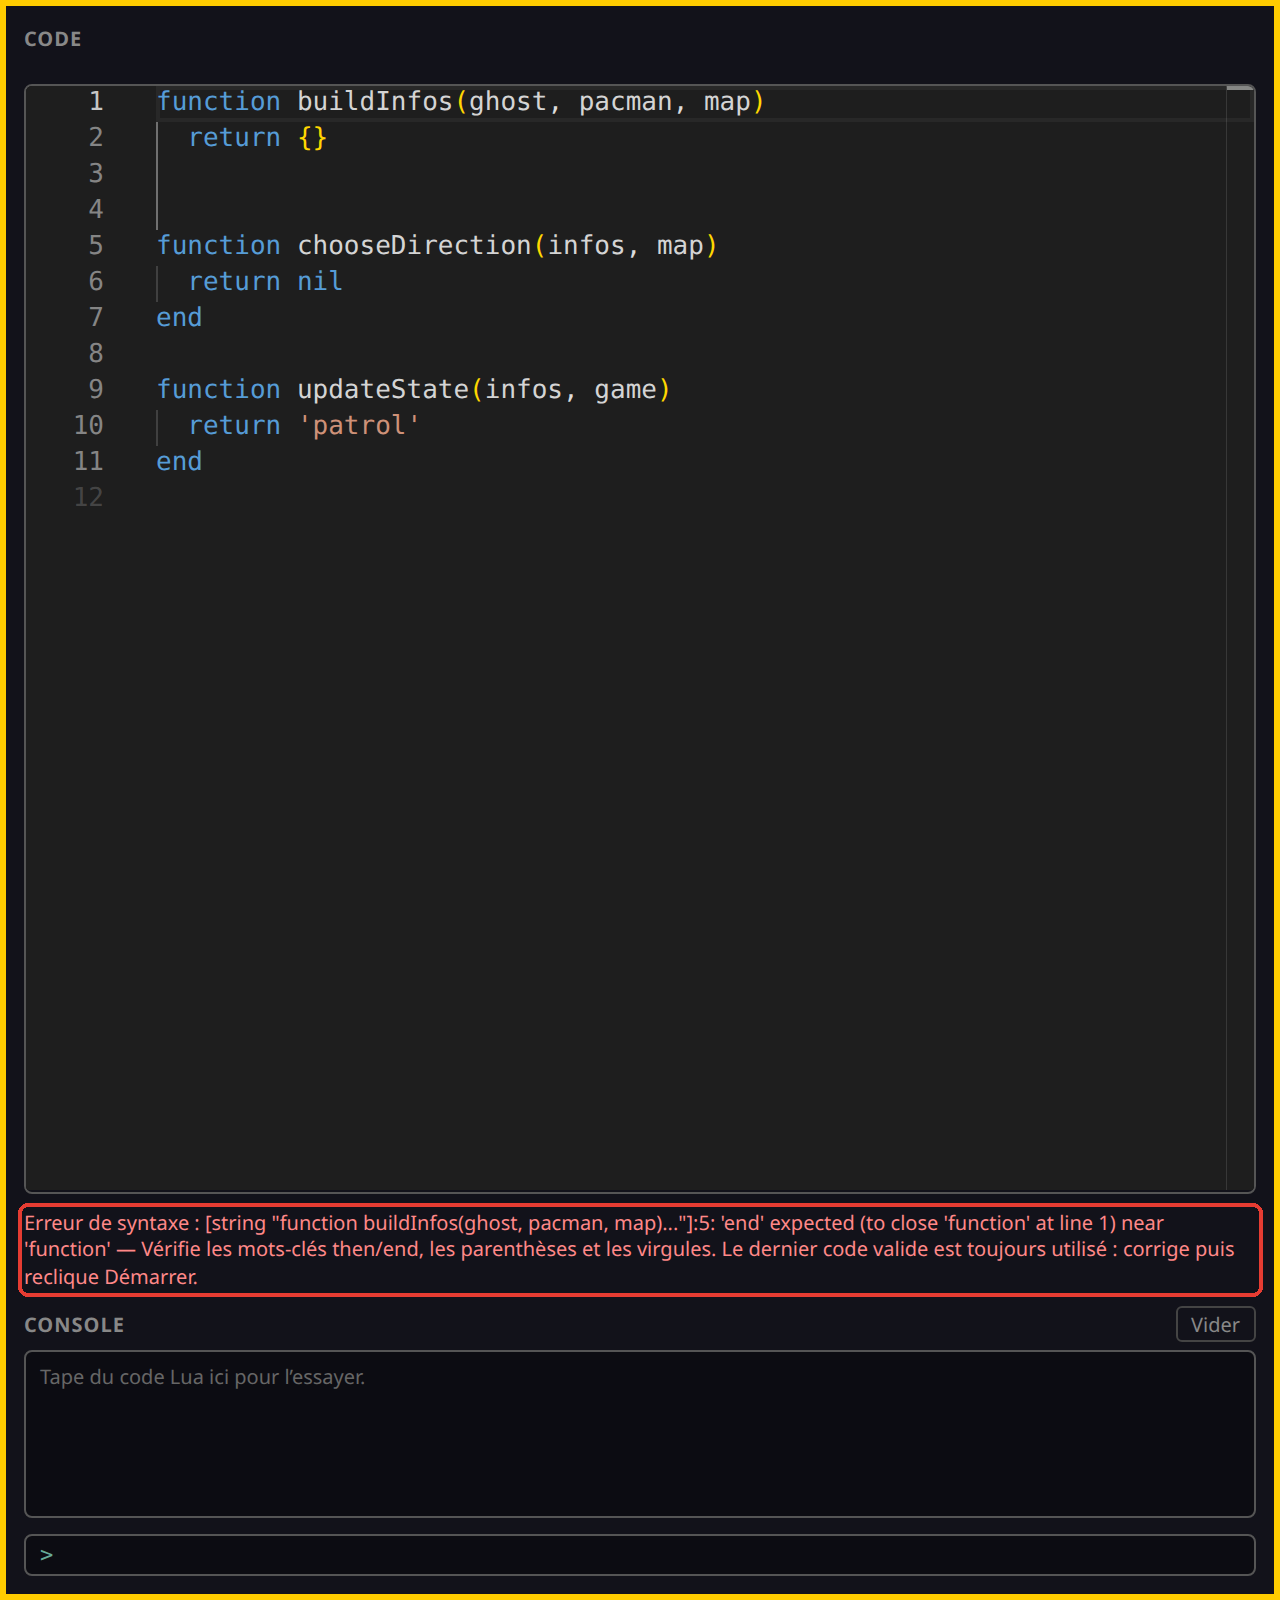
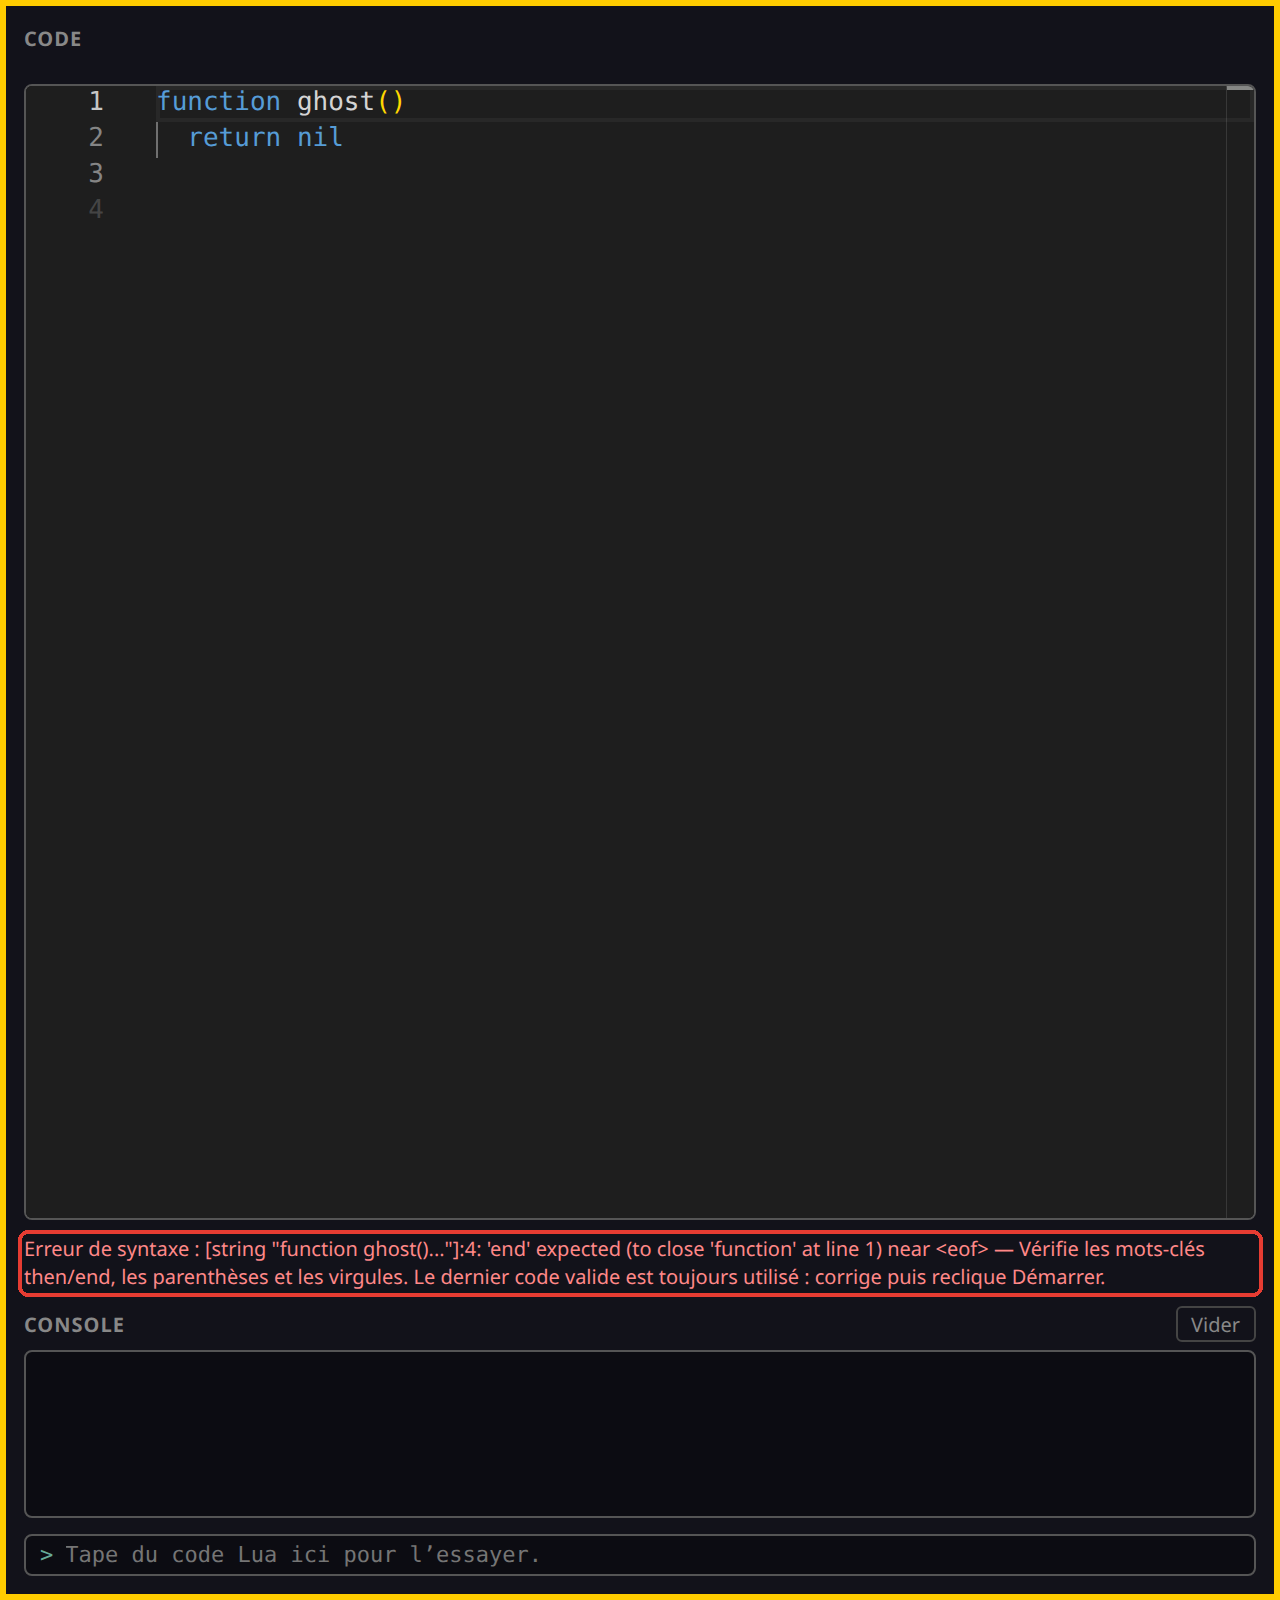
Explorer un sujet a une seule fonction : ghost(), et des variables une par une
Version du sujet pour la branche explo/fonction-unique du runtime. Plus de
buildInfos ni de table infos : l'eleve range ses informations dans des
variables (canGoLeft, distanceX...) puis ecrit ses regles dessous, dans la
seule fonction ghost(). L'humeur de la partie 2 est une variable state en
haut du fichier, lue par le jeu apres chaque appel.

- Partie 1 : memes etapes, memes images ; les virgules de table et le
  prefixe infos. disparaissent des consignes et des coups de pouce.
- Partie 2, etape 0 : le critere de reussite devient visible (state a
  'follow' rend le fantome rouge) au lieu d'un print.
- Partie 2, etape 3 : l'outil « cascade de return » devient « plusieurs
  regles qui rangent dans la meme variable, la derniere gagne », puisque
  state s'affecte au lieu de se renvoyer.
- Bonus Tenir sa direction : plus de compte a rebours fourni par le jeu ;
  l'eleve compte les appels (60 par seconde, donc 90 = 1,5 s), avec un
  outil sur les variables qui survivent d'un appel a l'autre.
- interface.png et erreur-end.png repris sur le nouveau runtime.

Claude-Session: https://claude.ai/code/session_014swqyu5pWsLvWf6cDe9CY1

diff --git a/atelier1.md b/atelier1.md
@@ -18,7 +18,7 @@ Le jeu fonctionne déjà en partie : Pac-Man se déplace et mange les pac-gommes
 ![Le panneau Jeu est actif : contour jaune. Démarrer, encadré en rouge, charge ton code.](img/interface.png)
 
 - Contour **jaune** = le panneau qui reçoit tes touches. Clique dans le panneau **Code** pour écrire ton code, dans le panneau **Jeu** pour tester ce que tu as codé.
-- Dans l'éditeur il y a deux fonctions à remplir : `buildInfos`, où tu prépares ton fantôme à prendre une décision, et `chooseDirection`, où tu appliques cette décision. Tu ne touches pas à `updateState` pour l'instant.
+- Dans l'éditeur il y a une seule fonction à remplir : `ghost`. Le jeu l'appelle **60 fois par seconde**, et le fantôme part dans la direction qu'elle renvoie.
 - Sous l'éditeur, la **Console** : les erreurs et les affichages du programme y sortent, et tu
   peux y taper du code toi-même pour l'essayer, les exemples des **boîtes à outils** par exemple.
 - **Écris toujours entre** `function` **et** `end`.
@@ -29,7 +29,7 @@ Le jeu fonctionne déjà en partie : Pac-Man se déplace et mange les pac-gommes
 
 1. En haut de cette page, clique sur le bouton **Ouvrir Pac-Man** : le jeu s'ouvre à côté des instructions ou dans un nouvel onglet.
 2. Clique dans le panneau **Jeu**, puis sur **Démarrer**, et joue une partie rapidement.
-3. Efface le `end` de la **ligne 3**, celui qui ferme `buildInfos`, puis clique **Arrêter** et **Démarrer**.
+3. Efface le `end` de la **ligne 3**, celui qui ferme `ghost`, puis clique **Arrêter** et **Démarrer**.
 
 Tu dois obtenir ceci :
 
@@ -49,7 +49,7 @@ Les flèches ne font rien ? Le contour jaune entoure sûrement le panneau **Code
 ## Étape 1 : Faire bouger le fantôme
 <!-- ws: {type: exercise, id: a1-bouger} -->
 
-Le fantôme ne bouge pas, et c'est normal : `chooseDirection` renvoie `nil`, ce qui veut dire « je ne fais rien ». Commence par lui dire d'aller à gauche.
+Le fantôme ne bouge pas, et c'est normal : `ghost` renvoie `nil`, ce qui veut dire « je ne fais rien ». Commence par lui dire d'aller à gauche.
 
 ### Boîte à outils
 
@@ -74,22 +74,15 @@ Voici le modèle de code. Tape-le et lance-le : tu te baseras sur ce modèle pou
 Une ligne qui commence par `--` est un **commentaire pour toi**, pas du code : tu n'es pas obligé de la recopier pour que le programme fonctionne.
 
 ```lua
--- dans buildInfos, à la place de return {}
-return {
-  canGoLeft = true,
-}
-```
-
-```lua
--- dans chooseDirection, à la place de return nil
-if infos.canGoLeft then
+-- dans ghost, à la place de return nil
+canGoLeft = true
+if canGoLeft then
   return 'left'
 end
 return nil
 ```
 
-Tu donnes l'information `canGoLeft` dans `buildInfos`.
-Et tu récupères cette information dans `chooseDirection` avec `infos.canGoLeft`.
+`canGoLeft` est une **variable** : la première ligne y range une information, et la règle en dessous la lit.
 
 Tu dois obtenir ceci :
 
@@ -101,8 +94,8 @@ Tu dois obtenir ceci :
 <details><summary>Si tu es bloqué</summary>
 
 Il ne bouge pas du tout ? Trois causes, dans cet ordre : tu n'as pas recliqué sur **Démarrer**, ton
-`return 'left'` est **après** le `end` au lieu d'être dedans, ou il manque la **virgule** après
-`canGoLeft = true`.
+`return 'left'` est **après** le `end` au lieu d'être dedans, ou `canGoLeft` n'est pas écrit pareil
+sur les deux lignes (une majuscule change tout).
 
 </details>
 
@@ -119,7 +112,7 @@ Pour savoir si le fantôme peut aller à gauche, tu regardes la case à sa gauch
 
 > 🗺 **La carte est une grille**
 > ![En informatique la case tout en haut à gauche, encadrée en rouge, est la case (0, 0). La flèche horizontale est l'axe X, la verticale l'axe Y : X augmente vers la droite, Y vers le bas.](img/origin.png)
-> Le jeu te donne déjà des outils pour récupérer la position du fantôme sur cette grille (`ghost.X`, `ghost.Y`) et pour savoir si une case sur la grille est un mur : `map.isWall(x, y)`.
+> Le jeu te donne déjà des outils pour récupérer la position du fantôme sur cette grille (`me.X`, `me.Y`) et pour savoir si une case sur la grille est un mur : `map.isWall(x, y)`.
 
 > 🧰 **Outil #1 : `not` « L'inverse de »**
 > `map.isWall(...)` dit « c'est un mur ». Ce qui t'intéresse, c'est l'inverse.
@@ -133,24 +126,22 @@ Pour savoir si le fantôme peut aller à gauche, tu regardes la case à sa gauch
 
 **Ton objectif :** le même fantôme, mais qui s'arrête au mur au lieu de le traverser.
 
-Une seule ligne change : `canGoLeft` devient une **variable** qui va changer selon ce qui se passe dans le programme : à force de se déplacer vers la gauche le fantôme tombera à un moment sur un mur.
+Une seule ligne change : `canGoLeft` ne vaut plus « vrai, tout le temps », mais quelque chose qui change selon ce qui se passe dans le programme : à force de se déplacer vers la gauche le fantôme tombera à un moment sur un mur.
 
 ```lua
--- dans buildInfos
-return {
-  canGoLeft = not map.isWall(ghost.X - 1, ghost.Y),
-}
+-- dans ghost, à la place de canGoLeft = true
+canGoLeft = not map.isWall(me.X - 1, me.Y)
 ```
 
-`not map.isWall(ghost.X - 1, ghost.Y)` se lit : **« la case à gauche du fantôme n'est pas un mur »**.
+`not map.isWall(me.X - 1, me.Y)` se lit : **« la case à gauche du fantôme n'est pas un mur »**.
 
 <details><summary>En détail</summary>
 
-Si on décompose `not map.isWall(ghost.X - 1, ghost.Y)` :
+Si on décompose `not map.isWall(me.X - 1, me.Y)` :
 
 - `not` : le **contraire** de...
   - `map.isWall(..., ...)` : est-ce que cette case-là est un mur ? Quelle case ?
-    - `ghost.X - 1` : celle qui est à gauche du fantôme, `ghost.Y` : la position verticale du fantôme.
+    - `me.X - 1` : celle qui est à gauche du fantôme, `me.Y` : la position verticale du fantôme.
 
 </details>
 
@@ -164,7 +155,7 @@ Tu dois obtenir ceci :
 Il sort toujours de l'écran ? Tu as laissé `canGoLeft = true` quelque part, ou tu as ajouté la
 nouvelle ligne sans effacer l'ancienne.
 
-Il ne bouge plus du tout ? Vérifie le `-` de `ghost.X - 1` et la **virgule** en fin de ligne.
+Il ne bouge plus du tout ? Vérifie le `-` de `me.X - 1` et les deux parenthèses.
 
 </details>
 
@@ -196,16 +187,13 @@ Lorsque `distanceX` est négatif : Pac-Man est à **gauche du fantôme**.
 **Ton objectif :** un fantôme qui ne va à gauche **QUE SI** Pac-Man est à sa gauche, **ET** qu'il peut y aller.
 
 ```lua
--- dans buildInfos
-return {
-  canGoLeft = not map.isWall(ghost.X - 1, ghost.Y),
-  distanceX = pacman.X - ghost.X,
-}
+-- dans ghost, sous canGoLeft
+distanceX = pacman.X - me.X
 ```
 
 ```lua
--- dans chooseDirection
-if infos.canGoLeft and infos.distanceX < 0 then
+-- puis ta règle devient
+if canGoLeft and distanceX < 0 then
   return 'left'
 end
 return nil
@@ -222,22 +210,14 @@ Pour déplacer Pac-Man, attrape-le à la souris quand le jeu est **arrêté** :
 <details><summary>À quoi ressemble ton fichier en entier, à ce stade</summary>
 
 ```lua
-function buildInfos(ghost, pacman, map)
-  return {
-    canGoLeft = not map.isWall(ghost.X - 1, ghost.Y),
-    distanceX = pacman.X - ghost.X,
-  }
-end
+function ghost()
+  canGoLeft = not map.isWall(me.X - 1, me.Y)
+  distanceX = pacman.X - me.X
 
-function chooseDirection(infos, map)
-  if infos.canGoLeft and infos.distanceX < 0 then
+  if canGoLeft and distanceX < 0 then
     return 'left'
   end
   return nil
-end
-
-function updateState(infos, game)
-  return 'patrol'
 end
 ```
 
@@ -247,7 +227,7 @@ end
 <details><summary>Si tu es bloqué</summary>
 
 Immobile **des deux côtés** ? Ce n'est pas ta règle, c'est ton code. Compare avec le fichier
-complet ci-dessus, ligne par ligne : la virgule après `distanceX`, et le `then` en fin de `if`.
+complet ci-dessus, ligne par ligne : le `-` de `pacman.X - me.X`, et le `then` en fin de `if`.
 
 </details>
 
@@ -256,8 +236,8 @@ complet ci-dessus, ligne par ligne : la virgule après `distanceX`, et le `then`
 
 Pour aller à droite, c'est comme pour aller à gauche... mais dans l'autre sens.
 
-- Pour regarder ce qu'il y a à gauche de ton fantôme, tu regardes `ghost.X - 1`. Pour la droite ?
-- Et pour savoir si Pac-Man est à gauche, tu regardes si `infos.distanceX` est négatif. Et pour savoir s'il est à droite ?
+- Pour regarder ce qu'il y a à gauche de ton fantôme, tu regardes `me.X - 1`. Pour la droite ?
+- Et pour savoir si Pac-Man est à gauche, tu regardes si `distanceX` est négatif. Et pour savoir s'il est à droite ?
 
 ### Boîte à outils
 
@@ -295,17 +275,11 @@ Pour aller à droite, c'est comme pour aller à gauche... mais dans l'autre sens
 **Ton objectif :** un fantôme qui te suit dans les deux sens sur une ligne horizontale.
 
 ```lua
--- dans buildInfos
-return {
-  canGoLeft = not map.isWall(ghost.X - 1, ghost.Y),
-  distanceX = pacman.X - ghost.X,
-  canGoRight = nil, -- remplace nil par ton code
-}
+-- dans ghost, une variable de plus, sous distanceX
+canGoRight = nil -- remplace nil par ton code
 ```
 
-**Chaque ligne se termine par une virgule**, sauf la dernière si tu veux. Oublie-en une au milieu et le programme plante.
-
-Puis **une règle de plus** dans `chooseDirection`, avant le `return nil` final, sans supprimer celle de gauche : « si le fantôme peut aller à droite **et** que Pac-Man est à sa droite, alors il va à droite. » (en utilisant `return 'right'` ).
+Puis **une règle de plus**, avant le `return nil` final, sans supprimer celle de gauche : « si le fantôme peut aller à droite **et** que Pac-Man est à sa droite, alors il va à droite. » (en utilisant `return 'right'` ).
 
 Tu dois obtenir ceci :
 
@@ -327,25 +301,20 @@ Même modèle, sur l'autre axe. Une seule différence, et c'est **le** piège de
 
 ![Fantôme en (5, 3), Pac-Man en (5, 9) : Pac-Man est en dessous, et l'écart vertical vaut +6.](img/a1-e5-axe-y.png)
 
-Les deux directions te manquent aussi : le fantôme réagira lorsque `chooseDirection` retournera `'up'` et `'down'` (avec les apostrophes, exactement comme `return 'left'` et `return 'right'`).
+Les deux directions te manquent aussi : le fantôme réagira lorsque `ghost` renverra `'up'` et `'down'` (avec les apostrophes, exactement comme `return 'left'` et `return 'right'`).
 
 ### 🥸 Mise en application
 
 **Ton objectif :** un fantôme qui te suit partout, plus seulement sur une ligne.
 
 ```lua
--- dans buildInfos
-return {
-  canGoLeft = not map.isWall(ghost.X - 1, ghost.Y),
-  distanceX = pacman.X - ghost.X,
-  canGoRight = not map.isWall(ghost.X + 1, ghost.Y),
-  canGoUp = nil,   -- remplace nil par ton code
-  canGoDown = nil, -- idem
-  distanceY = nil, -- idem
-}
+-- dans ghost, trois variables de plus, sous canGoRight
+canGoUp = nil   -- remplace nil par ton code
+canGoDown = nil -- idem
+distanceY = nil -- idem
 ```
 
-Puis **deux règles de plus** dans `chooseDirection`, sur le modèle des deux que tu as déjà.
+Puis **deux règles de plus**, sur le modèle des deux que tu as déjà.
 
 Tu dois obtenir ceci :
 
@@ -362,7 +331,7 @@ Quand Pac-Man est en diagonale, plusieurs de tes règles sont vraies en même te
 
 **D'abord**, à la souris et jeu arrêté, mets le fantôme dans un coin et Pac-Man dans le coin opposé, le plus loin possible. Lance, et regarde **par quel axe (horizontal ou vertical) le fantôme démarre**.
 
-Puis, dans `chooseDirection` uniquement, échange l'ordre de tes règles horizontales et verticales. **Ne touche à rien d'autre** : laisse le fantôme et Pac-Man exactement dans les coins où tu les as posés. Si tu les déplaces aussi, le trajet changera, mais tu ne sauras pas si c'est à cause de l'ordre ou à cause de tes coins. Relance, et regarde de nouveau.
+Puis échange l'ordre de tes règles horizontales et verticales, sans toucher à tes variables. **Ne touche à rien d'autre** : laisse le fantôme et Pac-Man exactement dans les coins où tu les as posés. Si tu les déplaces aussi, le trajet changera, mais tu ne sauras pas si c'est à cause de l'ordre ou à cause de tes coins. Relance, et regarde de nouveau.
 
 Tu dois obtenir ceci : **deux trajets opposés, avec exactement les mêmes règles** :
 
@@ -433,7 +402,7 @@ Le fantôme avance alors d'une case sur cet axe, l'écart y diminue, l'autre axe
 
 Oui, huit règles qui se ressemblent, c'est lourd. Mais c'est pratiquement toujours la même chose, avec un petit morceau de code à changer à chaque fois.
 
-Réorganise `chooseDirection` sur cette ossature. Le `end` de l'ossature est déjà placé, tes règles, elles, gardent chacune le sien.
+Réorganise tes règles sur cette ossature, sous tes variables. Le `end` de l'ossature est déjà placé, tes règles, elles, gardent chacune le sien.
 
 ```lua
 if nil then -- remplace nil par ta comparaison (l'écart horizontal est plus grand que l'écart vertical)
@@ -453,7 +422,7 @@ Tu dois obtenir ceci (cale Pac-Man en bas à gauche de l'écran et le fantôme e
 
 **Coupe l'étape en deux, teste au milieu.**
 
-*Moitié 1, la comparaison seule.* `print(math.abs(infos.distanceX), math.abs(infos.distanceY))` au début de `chooseDirection`. Les deux nombres s'affichent dans le panneau **Console**, sous l'éditeur. Ça défile : regarde la dernière ligne. Bougent-ils comme tu l'attends quand tu te déplaces ?
+*Moitié 1, la comparaison seule.* `print(math.abs(distanceX), math.abs(distanceY))` juste après tes variables. Les deux nombres s'affichent dans le panneau **Console**, sous l'éditeur. Ça défile : regarde la dernière ligne. Bougent-ils comme tu l'attends quand tu te déplaces ?
 
 *Moitié 2, la structure.* Tes règles marchent déjà : tu n'as **rien** à réécrire dedans. Tu les recopies dans les deux branches, dans un ordre différent.
 
@@ -498,7 +467,7 @@ Fais-le s'arrêter net à moins de 2 cases, au lieu de foncer dedans.
 
 ### Défi #2 : Le gardien
 
-Quand tu es sur la même ligne **ou** la même colonne que lui, fais-le s'arrêter pour te barrer la route au lieu d'avancer. Deux outils de plus : `==` teste l'égalité (`if infos.distanceY == 0 then` = « l'écart vertical vaut exactement zéro »), et `or` remplace `and` quand **une seule** des deux conditions suffit.
+Quand tu es sur la même ligne **ou** la même colonne que lui, fais-le s'arrêter pour te barrer la route au lieu d'avancer. Deux outils de plus : `==` teste l'égalité (`if distanceY == 0 then` = « l'écart vertical vaut exactement zéro »), et `or` remplace `and` quand **une seule** des deux conditions suffit.
 
 *C'est réussi si :* dès que tu te places sur sa ligne, il cesse d'avancer.
 
@@ -518,9 +487,9 @@ end
 if ilFaitBeau(true, 5) then return 'parasol' end
 ```
 
-Les noms entre parenthèses de la **première** ligne sont les tiens, tu les choisis ; ceux de l'appel sont les vraies valeurs. Écris ta fonction **en dehors** des trois autres, jamais dedans : le jeu lit ton fichier en entier et n'appelle que les trois qu'il connaît.
+Les noms entre parenthèses de la **première** ligne sont les tiens, tu les choisis ; ceux de l'appel sont les vraies valeurs. Écris ta fonction **en dehors** de `ghost`, jamais dedans : le jeu lit ton fichier en entier et n'appelle que `ghost`.
 
-*C'est réussi si :* ton `chooseDirection` est plus court qu'avant, et que ton fantôme se comporte exactement comme à l'étape 7.
+*C'est réussi si :* ton `ghost` est plus court qu'avant, et que ton fantôme se comporte exactement comme à l'étape 7.
 
 > 🤔 Et deux questions sans réponse écrite, pour celles et ceux que ça amuse : ce fantôme est-il vraiment *intelligent* ? Et trouves-tu une position de départ où il se coince derrière un mur alors qu'un détour l'aurait ramené sur toi ?
 

diff --git a/intro.md b/intro.md
@@ -26,16 +26,8 @@ Et à la fin, tu en auras fait un vrai chasseur.
 À utiliser si tu veux repartir de zéro.
 
 ```lua
-function buildInfos(ghost, pacman, map)
-  return {}
-end
-
-function chooseDirection(infos, map)
+function ghost()
   return nil
-end
-
-function updateState(infos, game)
-  return 'patrol'
 end
 ```
 
@@ -45,10 +37,8 @@ Ces termes viennent du jeu, pas de Lua.
 
 | Terme | Signification |
 | --- | --- |
-| `buildInfos` | La fonction où tu construis la liste `infos` : les informations que tu prépares pour le fantôme |
-| `chooseDirection` | La fonction où tu écris les règles « si... alors... » qui permettent au fantôme de choisir une direction |
-| `updateState` | La fonction où tu écris les règles pour choisir l'humeur du fantôme (partie 2) |
-| `ghost.X` `ghost.Y` | Position du fantôme (X,Y), en cases |
+| `ghost` | La fonction où tu écris les règles « si... alors... » du fantôme. Le jeu l'appelle **60 fois par seconde**, et le fantôme part dans la direction qu'elle renvoie |
+| `me.X` `me.Y` | Position du fantôme (X,Y), en cases |
 | `pacman.X` `pacman.Y` | Position de Pac-Man (X,Y), en cases |
 | `map.isWall(x, y)` | `true` si la case `(x, y)` est un mur |
 | `'left'` `'right'` `'up'` `'down'` | Les quatre directions que le jeu comprend. Toujours en anglais, toujours entre apostrophes |
